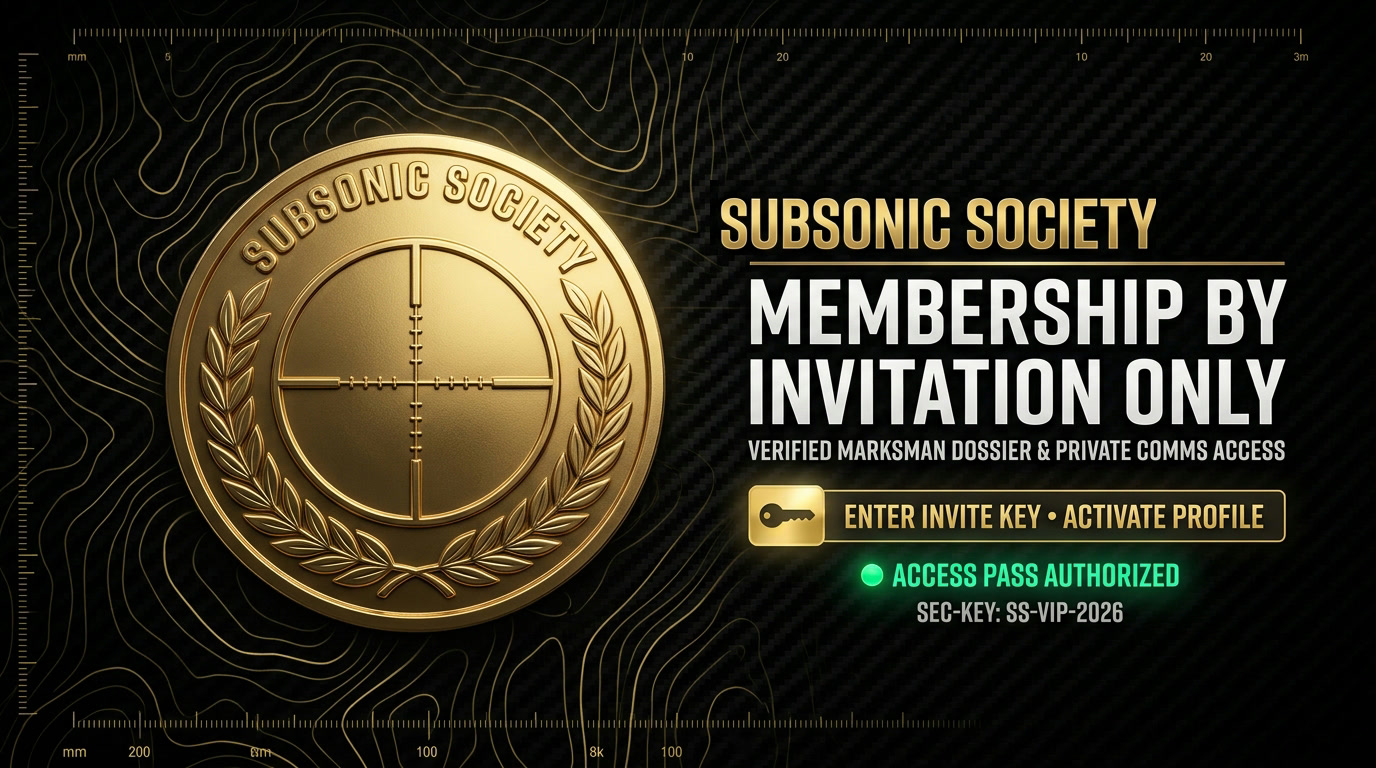
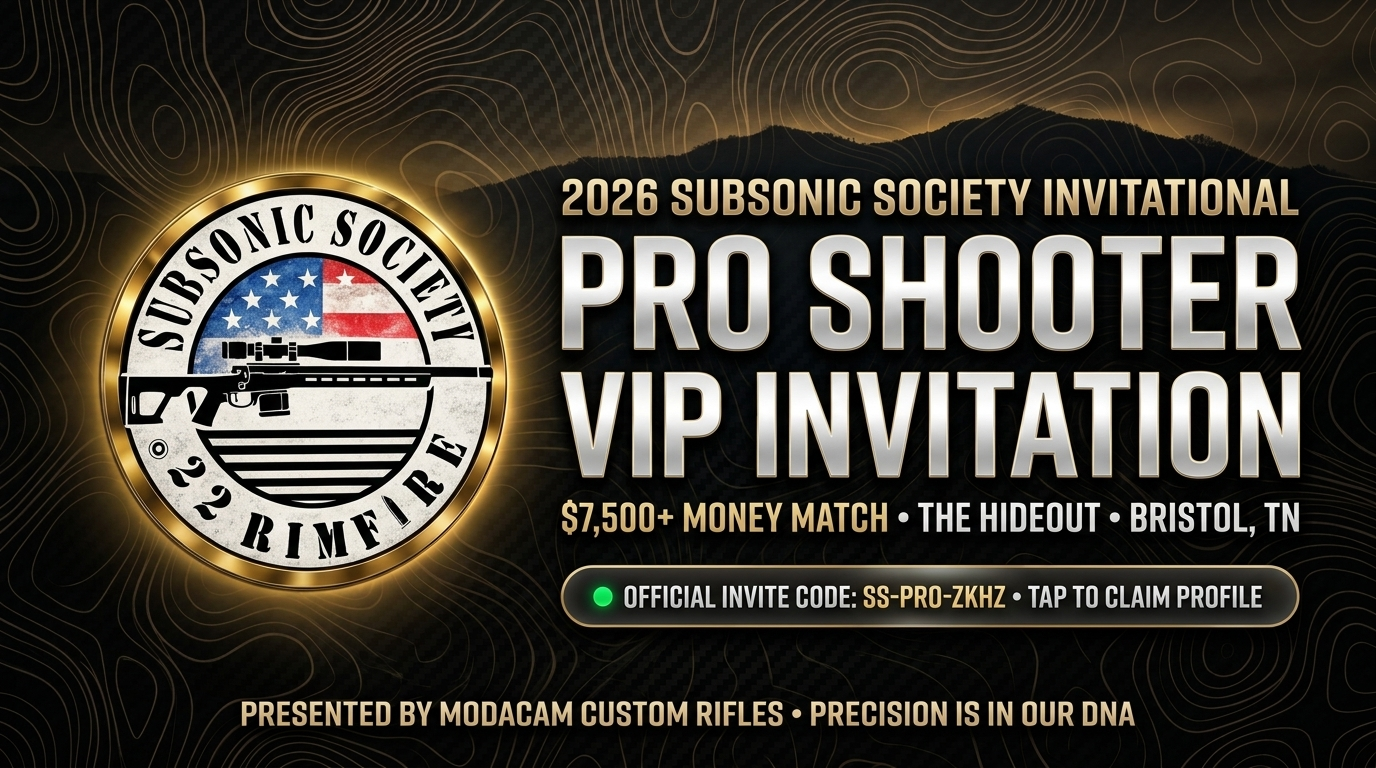
Add custom Pro Shooter VIP Invitation social share card and OpenGraph metadata for SS-PRO-ZKHZ

diff --git a/src/app/invite/layout.tsx b/src/app/invite/layout.tsx
@@ -7,31 +7,33 @@ const siteUrl =
 
 export const metadata: Metadata = {
   metadataBase: new URL(siteUrl),
-  title: "Claim Invitation & Profile Setup | Subsonic Society",
+  title: "2026 Subsonic Society Invitational — Pro Shooter VIP Invitation",
   description:
-    "Membership by invitation only. Enter your serialized invitation key to claim your tactical callsign, set your 4-digit access PIN, and activate your verified marksman profile and Chat Room access.",
+    "Presented by Modacam Custom Rifles • $7,500+ Money Match at The Hideout (Bristol, TN). Tap to claim your Pro Shooter Spotlight Profile & Chat Room access (Code: SS-PRO-ZKHZ).",
   keywords: [
-    "Subsonic Society Invitation",
-    "Invitation Code Redeem",
-    "Marksman Profile Setup",
-    "Precision Rimfire Credentials",
-    "Private Squad Net Chat Room",
+    "Subsonic Society Invitational",
+    "Pro Shooter VIP Invitation",
+    "Modacam Custom Rifles",
+    "The Hideout Bristol TN",
+    "SS-PRO-ZKHZ",
   ],
   alternates: {
     canonical: "/invite",
   },
   openGraph: {
-    title: "Claim Your Invitation & Activate Marksman Profile | Subsonic Society",
+    title: "2026 Subsonic Society Invitational — Pro Shooter VIP Invitation",
     description:
-      "Membership by invitation only. Redeem your invitation key to unlock verified shooter credentials, private Chat Room, and match registration access.",
-    url: "/invite",
+      "Presented by Modacam Custom Rifles • $7,500+ Money Match at The Hideout (Bristol, TN). Tap to claim your Pro Shooter Spotlight Profile & Chat Room access (Code: SS-PRO-ZKHZ).",
+    url: `${siteUrl}/invite/pro?code=SS-PRO-ZKHZ`,
     siteName: "Subsonic Society",
     images: [
       {
-        url: "/assets/subsonic-invite-social-share.jpg?v=5",
-        width: 1280,
-        height: 720,
-        alt: "Subsonic Society - Membership By Invitation Only - Claim & Activate Profile",
+        url: `${siteUrl}/assets/subsonic-pro-zkhz-social-share.jpg?v=1`,
+        secureUrl: `${siteUrl}/assets/subsonic-pro-zkhz-social-share.jpg?v=1`,
+        width: 1376,
+        height: 768,
+        type: "image/jpeg",
+        alt: "2026 Subsonic Society Invitational — Pro Shooter VIP Invitation (Code: SS-PRO-ZKHZ)",
       },
     ],
     locale: "en_US",
@@ -39,10 +41,10 @@ export const metadata: Metadata = {
   },
   twitter: {
     card: "summary_large_image",
-    title: "Claim Your Invitation & Activate Marksman Profile | Subsonic Society",
+    title: "2026 Subsonic Society Invitational — Pro Shooter VIP Invitation",
     description:
-      "Membership by invitation only. Redeem your invitation key to unlock verified shooter credentials and private squad comms.",
-    images: ["/assets/subsonic-invite-social-share.jpg?v=5"],
+      "Presented by Modacam Custom Rifles • $7,500+ Money Match at The Hideout (Bristol, TN). Tap to claim your Pro Shooter Spotlight Profile & Chat Room access (Code: SS-PRO-ZKHZ).",
+    images: [`${siteUrl}/assets/subsonic-pro-zkhz-social-share.jpg?v=1`],
   },
 };
 

diff --git a/src/app/invite/pro/layout.tsx b/src/app/invite/pro/layout.tsx
@@ -7,30 +7,34 @@ const siteUrl =
 
 export const metadata: Metadata = {
   metadataBase: new URL(siteUrl),
-  title: "Competition Pro VIP Invitation & Profile Setup | Subsonic Society",
+  title: "2026 Subsonic Society Invitational — Pro Shooter VIP Invitation",
   description:
-    "Exclusive invitation portal for precision rimfire competitors. Enter your VIP key, configure your marksman profile, upload match photos, and generate your public shooter profile.",
+    "Presented by Modacam Custom Rifles • $7,500+ Money Match at The Hideout (Bristol, TN). Tap to claim your Pro Shooter Spotlight Profile & Chat Room access (Code: SS-PRO-ZKHZ).",
   keywords: [
-    "Subsonic Society Pro VIP",
-    "Competition Shooter Profile",
-    "VIP Invitation Setup",
+    "Subsonic Society Invitational",
+    "Pro Shooter VIP Invitation",
+    "Modacam Custom Rifles",
+    "The Hideout Bristol TN",
+    "SS-PRO-ZKHZ",
     "Precision Rimfire Competitor",
   ],
   alternates: {
     canonical: "/invite/pro",
   },
   openGraph: {
-    title: "Competition Pro VIP Invitation & Profile Setup | Subsonic Society",
+    title: "2026 Subsonic Society Invitational — Pro Shooter VIP Invitation",
     description:
-      "Exclusive invitation portal for precision rimfire competitors. Activate your VIP profile and shooter profile.",
-    url: "/invite/pro",
+      "Presented by Modacam Custom Rifles • $7,500+ Money Match at The Hideout (Bristol, TN). Tap to claim your Pro Shooter Spotlight Profile & Chat Room access (Code: SS-PRO-ZKHZ).",
+    url: `${siteUrl}/invite/pro?code=SS-PRO-ZKHZ`,
     siteName: "Subsonic Society",
     images: [
       {
-        url: "/assets/subsonic-invite-social-share.jpg?v=5",
-        width: 1280,
-        height: 720,
-        alt: "Subsonic Society Pro VIP Invitation & Profile Setup",
+        url: `${siteUrl}/assets/subsonic-pro-zkhz-social-share.jpg?v=1`,
+        secureUrl: `${siteUrl}/assets/subsonic-pro-zkhz-social-share.jpg?v=1`,
+        width: 1376,
+        height: 768,
+        type: "image/jpeg",
+        alt: "2026 Subsonic Society Invitational — Pro Shooter VIP Invitation (Code: SS-PRO-ZKHZ)",
       },
     ],
     locale: "en_US",
@@ -38,9 +42,10 @@ export const metadata: Metadata = {
   },
   twitter: {
     card: "summary_large_image",
-    title: "Competition Pro VIP Invitation & Profile Setup | Subsonic Society",
-    description: "Activate your VIP marksman profile and Chat Room access.",
-    images: ["/assets/subsonic-invite-social-share.jpg?v=5"],
+    title: "2026 Subsonic Society Invitational — Pro Shooter VIP Invitation",
+    description:
+      "Presented by Modacam Custom Rifles • $7,500+ Money Match at The Hideout (Bristol, TN). Tap to claim your Pro Shooter Spotlight Profile & Chat Room access (Code: SS-PRO-ZKHZ).",
+    images: [`${siteUrl}/assets/subsonic-pro-zkhz-social-share.jpg?v=1`],
   },
 };
 
